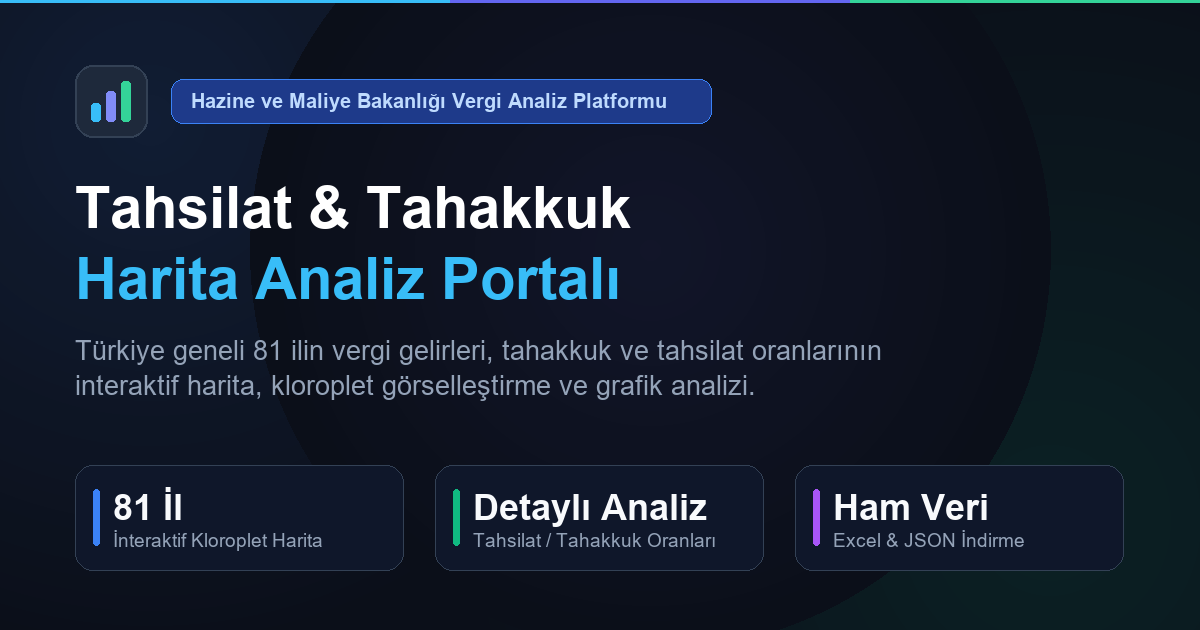
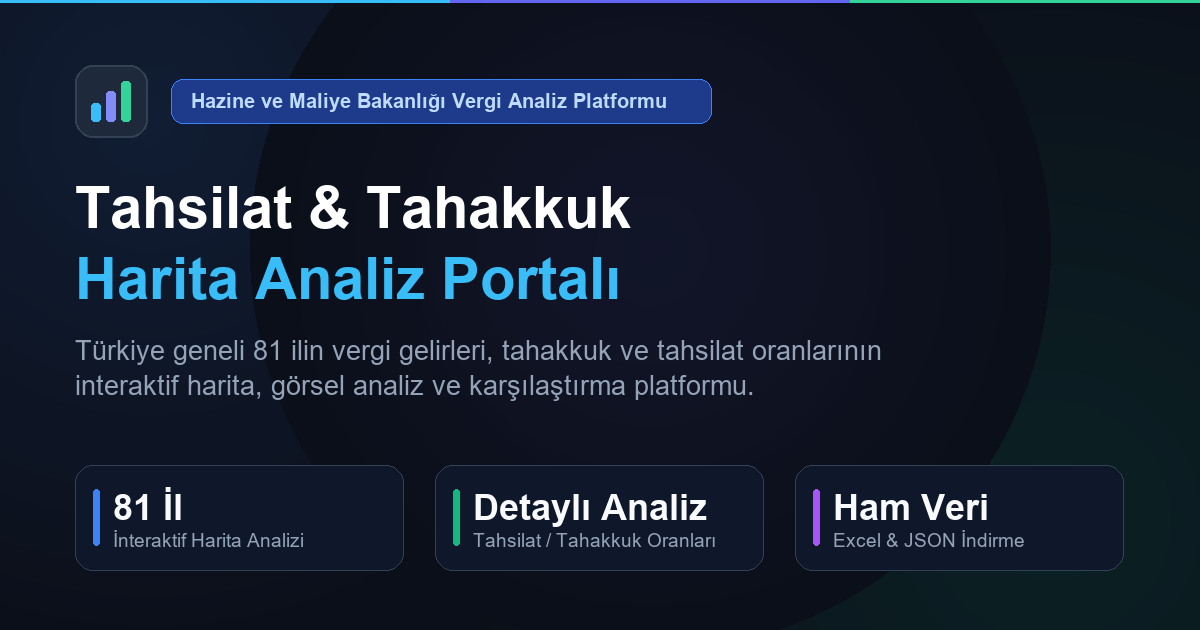
fix(seo): kloroplet terimi kaldirildi ve aciklamalar sadelestirildi

Changed region(s): [[0.2158, 0.6032, 0.6475, 0.6333], [0.1542, 0.8444, 0.2775, 0.8746]]

diff --git a/frontend/index.html b/frontend/index.html
@@ -77,7 +77,7 @@
           "inLanguage": "tr-TR",
           "isAccessibleForFree": true,
           "featureList": [
-            "81 İl İnteraktif Kloroplet Harita Analizi",
+            "81 İl İnteraktif Harita Analizi",
             "Tahsilat ve Tahakkuk Oran Karşılaştırmaları",
             "Mali Yıl ve Ay Bazlı Filtreleme",
             "Bölgesel ve Kategori Bazlı Vergi İncelemeleri",
